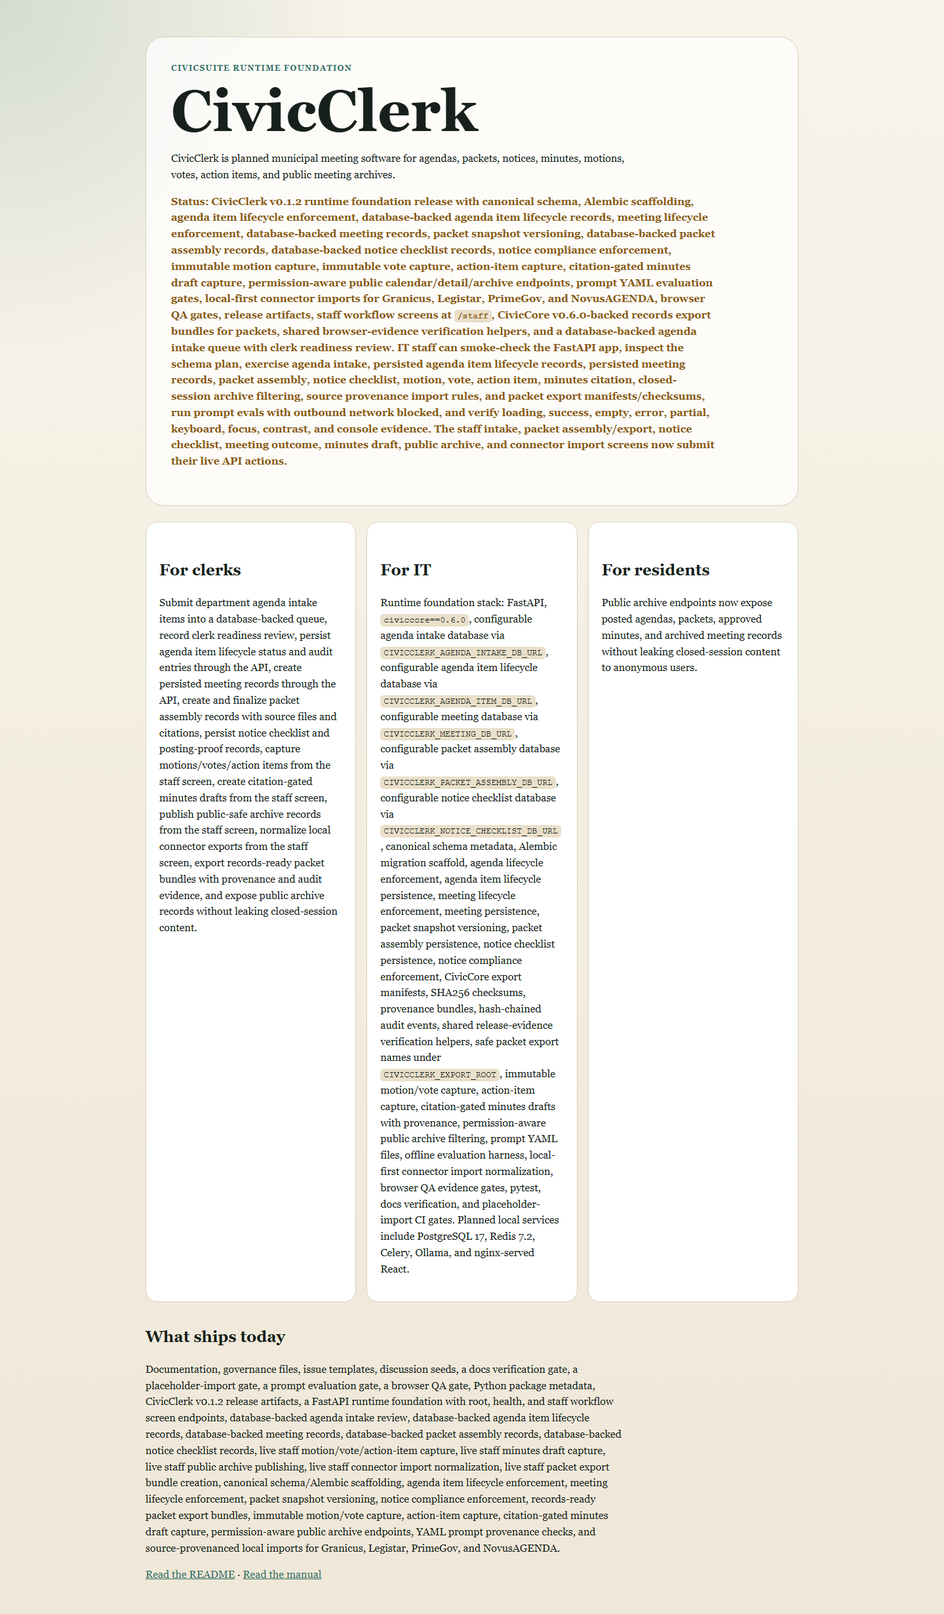
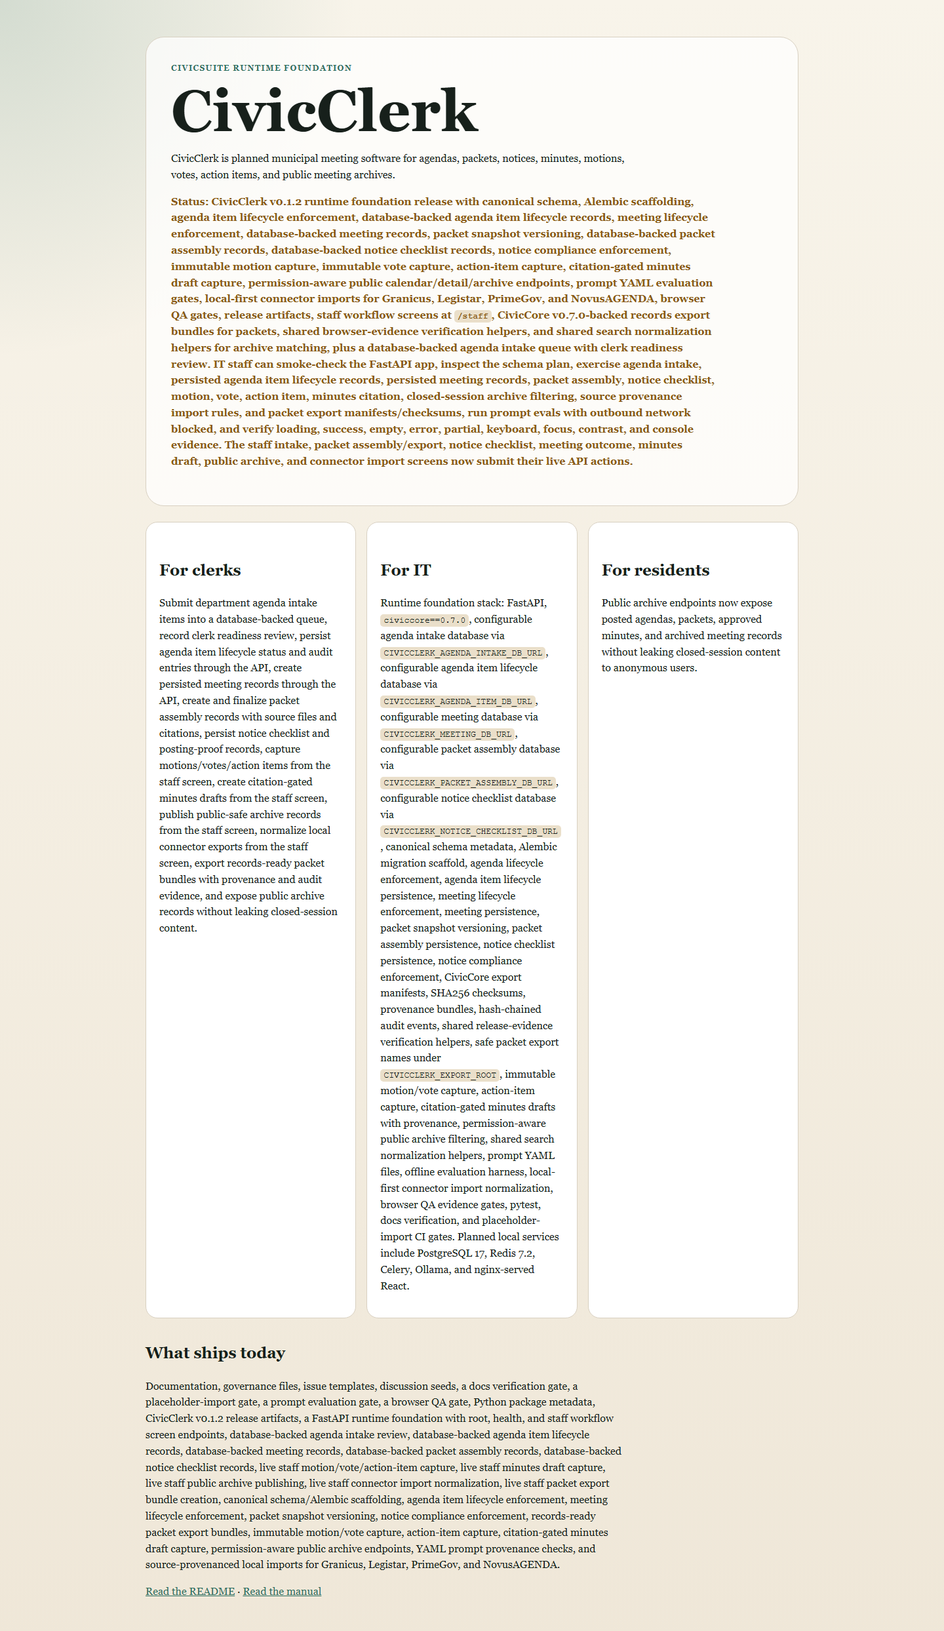
feat: consume civiccore search helpers

diff --git a/docs/index.html b/docs/index.html
@@ -51,7 +51,7 @@
       <div class="eyebrow">CivicSuite runtime foundation</div>
       <h1>CivicClerk</h1>
       <p>CivicClerk is planned municipal meeting software for agendas, packets, notices, minutes, motions, votes, action items, and public meeting archives.</p>
-      <p class="status">Status: CivicClerk v0.1.2 runtime foundation release with canonical schema, Alembic scaffolding, agenda item lifecycle enforcement, database-backed agenda item lifecycle records, meeting lifecycle enforcement, database-backed meeting records, packet snapshot versioning, database-backed packet assembly records, database-backed notice checklist records, notice compliance enforcement, immutable motion capture, immutable vote capture, action-item capture, citation-gated minutes draft capture, permission-aware public calendar/detail/archive endpoints, prompt YAML evaluation gates, local-first connector imports for Granicus, Legistar, PrimeGov, and NovusAGENDA, browser QA gates, release artifacts, staff workflow screens at <code>/staff</code>, CivicCore v0.6.0-backed records export bundles for packets, shared browser-evidence verification helpers, and a database-backed agenda intake queue with clerk readiness review. IT staff can smoke-check the FastAPI app, inspect the schema plan, exercise agenda intake, persisted agenda item lifecycle records, persisted meeting records, packet assembly, notice checklist, motion, vote, action item, minutes citation, closed-session archive filtering, source provenance import rules, and packet export manifests/checksums, run prompt evals with outbound network blocked, and verify loading, success, empty, error, partial, keyboard, focus, contrast, and console evidence. The staff intake, packet assembly/export, notice checklist, meeting outcome, minutes draft, public archive, and connector import screens now submit their live API actions.</p>
+      <p class="status">Status: CivicClerk v0.1.2 runtime foundation release with canonical schema, Alembic scaffolding, agenda item lifecycle enforcement, database-backed agenda item lifecycle records, meeting lifecycle enforcement, database-backed meeting records, packet snapshot versioning, database-backed packet assembly records, database-backed notice checklist records, notice compliance enforcement, immutable motion capture, immutable vote capture, action-item capture, citation-gated minutes draft capture, permission-aware public calendar/detail/archive endpoints, prompt YAML evaluation gates, local-first connector imports for Granicus, Legistar, PrimeGov, and NovusAGENDA, browser QA gates, release artifacts, staff workflow screens at <code>/staff</code>, CivicCore v0.7.0-backed records export bundles for packets, shared browser-evidence verification helpers, and shared search normalization helpers for archive matching, plus a database-backed agenda intake queue with clerk readiness review. IT staff can smoke-check the FastAPI app, inspect the schema plan, exercise agenda intake, persisted agenda item lifecycle records, persisted meeting records, packet assembly, notice checklist, motion, vote, action item, minutes citation, closed-session archive filtering, source provenance import rules, and packet export manifests/checksums, run prompt evals with outbound network blocked, and verify loading, success, empty, error, partial, keyboard, focus, contrast, and console evidence. The staff intake, packet assembly/export, notice checklist, meeting outcome, minutes draft, public archive, and connector import screens now submit their live API actions.</p>
     </section>
 
     <section class="grid" aria-label="Product overview">
@@ -61,7 +61,7 @@
       </article>
       <article class="card">
         <h2>For IT</h2>
-        <p>Runtime foundation stack: FastAPI, <code>civiccore==0.6.0</code>, configurable agenda intake database via <code>CIVICCLERK_AGENDA_INTAKE_DB_URL</code>, configurable agenda item lifecycle database via <code>CIVICCLERK_AGENDA_ITEM_DB_URL</code>, configurable meeting database via <code>CIVICCLERK_MEETING_DB_URL</code>, configurable packet assembly database via <code>CIVICCLERK_PACKET_ASSEMBLY_DB_URL</code>, configurable notice checklist database via <code>CIVICCLERK_NOTICE_CHECKLIST_DB_URL</code>, canonical schema metadata, Alembic migration scaffold, agenda lifecycle enforcement, agenda item lifecycle persistence, meeting lifecycle enforcement, meeting persistence, packet snapshot versioning, packet assembly persistence, notice checklist persistence, notice compliance enforcement, CivicCore export manifests, SHA256 checksums, provenance bundles, hash-chained audit events, shared release-evidence verification helpers, safe packet export names under <code>CIVICCLERK_EXPORT_ROOT</code>, immutable motion/vote capture, action-item capture, citation-gated minutes drafts with provenance, permission-aware public archive filtering, prompt YAML files, offline evaluation harness, local-first connector import normalization, browser QA evidence gates, pytest, docs verification, and placeholder-import CI gates. Planned local services include PostgreSQL 17, Redis 7.2, Celery, Ollama, and nginx-served React.</p>
+      <p>Runtime foundation stack: FastAPI, <code>civiccore==0.7.0</code>, configurable agenda intake database via <code>CIVICCLERK_AGENDA_INTAKE_DB_URL</code>, configurable agenda item lifecycle database via <code>CIVICCLERK_AGENDA_ITEM_DB_URL</code>, configurable meeting database via <code>CIVICCLERK_MEETING_DB_URL</code>, configurable packet assembly database via <code>CIVICCLERK_PACKET_ASSEMBLY_DB_URL</code>, configurable notice checklist database via <code>CIVICCLERK_NOTICE_CHECKLIST_DB_URL</code>, canonical schema metadata, Alembic migration scaffold, agenda lifecycle enforcement, agenda item lifecycle persistence, meeting lifecycle enforcement, meeting persistence, packet snapshot versioning, packet assembly persistence, notice checklist persistence, notice compliance enforcement, CivicCore export manifests, SHA256 checksums, provenance bundles, hash-chained audit events, shared release-evidence verification helpers, safe packet export names under <code>CIVICCLERK_EXPORT_ROOT</code>, immutable motion/vote capture, action-item capture, citation-gated minutes drafts with provenance, permission-aware public archive filtering, shared search normalization helpers, prompt YAML files, offline evaluation harness, local-first connector import normalization, browser QA evidence gates, pytest, docs verification, and placeholder-import CI gates. Planned local services include PostgreSQL 17, Redis 7.2, Celery, Ollama, and nginx-served React.</p>
       </article>
       <article class="card">
         <h2>For residents</h2>

diff --git a/tests/test_milestone_8_public_archive.py b/tests/test_milestone_8_public_archive.py
@@ -126,6 +126,25 @@ async def test_anonymous_archive_search_never_leaks_closed_session_in_body_count
 
 
 @pytest.mark.asyncio
+async def test_archive_search_normalizes_case_and_whitespace() -> None:
+    async with AsyncClient(transport=ASGITransport(app=app), base_url="http://testserver") as client:
+        meeting_id = await _create_meeting(client, "Normalization Budget Meeting")
+        public_record = await _publish_public_record(
+            client,
+            meeting_id=meeting_id,
+            title="Normalization Budget Meeting",
+        )
+
+        search = await client.get(
+            "/public/archive/search",
+            params={"q": "  normalization   budget   meeting  "},
+        )
+
+    assert search.status_code == 200
+    assert search.json()["results"] == [public_record]
+
+
+@pytest.mark.asyncio
 async def test_permission_aware_archive_search_for_staff_roles() -> None:
     async with AsyncClient(transport=ASGITransport(app=app), base_url="http://testserver") as client:
         closed_meeting_id = await _create_meeting(client, "Closed Labor Negotiation", "closed_session")

diff --git a/civicclerk/public_archive.py b/civicclerk/public_archive.py
@@ -5,6 +5,8 @@ from __future__ import annotations
 from dataclasses import dataclass
 from uuid import uuid4
 
+from civiccore.search import normalize_search_query, search_text_matches_query
+
 
 PUBLIC_VISIBILITY = "public"
 CLOSED_SESSION_VISIBILITY = "closed_session"
@@ -83,7 +85,7 @@ class PublicArchiveStore:
         return record
 
     def search(self, *, query: str, include_closed: bool = False) -> list[PublicMeetingRecord]:
-        normalized_query = query.strip().lower()
+        normalized_query = normalize_search_query(query)
         results: list[PublicMeetingRecord] = []
         for record in self._records.values():
             if record.visibility != PUBLIC_VISIBILITY and not include_closed:
@@ -116,8 +118,8 @@ def _record_matches(
             record.approved_minutes,
             record.closed_session_notes if include_closed and record.closed_session_notes else "",
         ]
-    ).lower()
-    return query in searchable_text
+    )
+    return search_text_matches_query(text=searchable_text, query=query)
 
 
 __all__ = [

diff --git a/civicclerk/main.py b/civicclerk/main.py
@@ -217,7 +217,7 @@ async def root() -> dict[str, str]:
             "minutes draft capture plus permission-aware public calendar and archive endpoints; "
             "prompt YAML and offline evaluation gates protect policy-bearing prompt changes; "
             "local-first Granicus, Legistar, PrimeGov, and NovusAGENDA imports now normalize "
-            "source provenance; CivicCore v0.6.0 packet export bundles now include manifests, "
+            "source provenance; CivicCore v0.7.0 packet export bundles now include manifests, "
             "checksums, provenance, and hash-chained audit evidence; accessibility and browser QA "
             "gates now verify loading, success, empty, error, partial, keyboard, focus, contrast, "
             "and console evidence; the first database-backed agenda intake queue now supports "

diff --git a/scripts/check-civiccore-placeholder-imports.py b/scripts/check-civiccore-placeholder-imports.py
@@ -1,5 +1,5 @@
 #!/usr/bin/env python3
-"""Fail if CivicClerk source imports CivicCore v0.6.0 placeholder packages."""
+"""Fail if CivicClerk source imports CivicCore v0.7.0 placeholder packages."""
 
 from __future__ import annotations
 
@@ -11,7 +11,6 @@ from pathlib import Path
 PLACEHOLDERS = [
     "rbac",
     "ingestion",
-    "search",
     "notifications",
     "exemptions",
     "onboarding",
@@ -60,7 +59,7 @@ def main() -> int:
         for name in PLACEHOLDERS:
             if any(pattern.search(text) for pattern in patterns_for(name)):
                 failures.append(
-                    f"{path}: civiccore.{name} is a placeholder package in v0.6.0. "
+                    f"{path}: civiccore.{name} is a placeholder package in v0.7.0. "
                     "See AGENTS.md section 3.1."
                 )
 

diff --git a/tests/test_milestone_1_runtime_foundation.py b/tests/test_milestone_1_runtime_foundation.py
@@ -42,7 +42,7 @@ def test_pyproject_pins_civiccore_exactly_to_released_v060() -> None:
     data = load_pyproject()
     dependencies = data["project"]["dependencies"]
 
-    assert "civiccore==0.6.0" in dependencies
+    assert "civiccore==0.7.0" in dependencies
     assert not any("civiccore>=" in dep or "civiccore~=" in dep for dep in dependencies)
 
 
@@ -126,7 +126,7 @@ async def test_health_endpoint_is_actionable_for_it_staff() -> None:
         "status": "ok",
         "service": "civicclerk",
         "version": "0.1.2",
-        "civiccore": "0.6.0",
+        "civiccore": "0.7.0",
     }
 
 

diff --git a/civicclerk/packet_notice.py b/civicclerk/packet_notice.py
@@ -121,7 +121,7 @@ class PacketStore:
     """Packet version and export-bundle store.
 
     The store is still process-local in this slice, but export bundles are
-written to disk with CivicCore v0.6.0 manifests, checksums, provenance, and
+    written to disk with CivicCore v0.7.0 manifests, checksums, provenance, and
     hash-chained audit events so they can be validated without the server.
     """
 

diff --git a/tests/test_milestone_12_release.py b/tests/test_milestone_12_release.py
@@ -102,4 +102,4 @@ def test_release_workflow_and_docs_reference_v012_release() -> None:
     assert "dist/*" in workflow
     assert "civiccore/releases/download/v0.6.0/civiccore-0.6.0-py3-none-any.whl" in workflow
     assert "civicclerk v0.1.2" in docs
-    assert "civiccore==0.6.0" in docs
+    assert "civiccore==0.7.0" in docs

diff --git a/tests/test_milestone_2_schema_and_migrations.py b/tests/test_milestone_2_schema_and_migrations.py
@@ -53,7 +53,6 @@ PLACEHOLDER_TARGET_PREFIXES = {
     "civiccore.auth",
     "civiccore.rbac",
     "civiccore.ingestion",
-    "civiccore.search",
     "civiccore.notifications",
     "civiccore.exemptions",
     "civiccore.onboarding",

diff --git a/README.md b/README.md
@@ -5,7 +5,7 @@
 Status: CivicClerk v0.1.2 runtime foundation release  
 Current version: `0.1.2`  
 Repository: <https://github.com/CivicSuite/civicclerk>  
-Depends on: `civiccore==0.6.0`
+Depends on: `civiccore==0.7.0`
 
 ## What CivicClerk will do
 
@@ -24,7 +24,7 @@ AI may draft or extract. Humans approve every consequential action.
 
 ## What exists today
 
-CivicClerk v0.1.2 ships the runtime and schema foundation plus database-backed agenda item lifecycle records, meeting lifecycle, packet snapshot, notice compliance, immutable motion capture, immutable vote capture, action-item capture, citation-gated minutes draft capture, permission-aware public calendar/detail/archive endpoints, a prompt YAML library with an offline evaluation harness, local-first connector imports for Granicus, Legistar, PrimeGov, and NovusAGENDA, accessibility/browser QA gates, CivicCore v0.6.0-backed records export bundles, database-backed agenda intake readiness, database-backed packet assembly records, database-backed notice checklist/posting-proof records, database-backed meeting records, and first staff workflow screens for intake, packet assembly/export, notice checklist, meeting outcome, minutes draft, public archive, and connector import work. The staff screens now submit agenda intake, record readiness review, create/finalize packet assembly records, create records-ready packet export bundles, persist notice checklist records, attach posting proof, capture motions/votes/action items, create citation-gated minutes drafts, publish public-safe archive records, and normalize local connector exports through the live API.
+CivicClerk v0.1.2 ships the runtime and schema foundation plus database-backed agenda item lifecycle records, meeting lifecycle, packet snapshot, notice compliance, immutable motion capture, immutable vote capture, action-item capture, citation-gated minutes draft capture, permission-aware public calendar/detail/archive endpoints, a prompt YAML library with an offline evaluation harness, local-first connector imports for Granicus, Legistar, PrimeGov, and NovusAGENDA, accessibility/browser QA gates, CivicCore v0.7.0-backed records export bundles, database-backed agenda intake readiness, database-backed packet assembly records, database-backed notice checklist/posting-proof records, database-backed meeting records, and first staff workflow screens for intake, packet assembly/export, notice checklist, meeting outcome, minutes draft, public archive, and connector import work. The staff screens now submit agenda intake, record readiness review, create/finalize packet assembly records, create records-ready packet export bundles, persist notice checklist records, attach posting proof, capture motions/votes/action items, create citation-gated minutes drafts, publish public-safe archive records, and normalize local connector exports through the live API.
 
 Shipped in this foundation:
 
@@ -34,7 +34,7 @@ Shipped in this foundation:
 - contributing, support, security, code of conduct, issue templates, and PR template
 - discussion seed posts
 - docs verification script and CI workflow
-- Python package metadata with `civiccore==0.6.0`
+- Python package metadata with `civiccore==0.7.0`
 - FastAPI application import path at `civicclerk.main:app`
 - root endpoint that explains the current product state
 - `/health` endpoint for IT staff
@@ -91,7 +91,7 @@ Shipped in this foundation:
 - prompt-version provenance enforcement for minutes drafts
 - local-first Granicus, Legistar, PrimeGov, and NovusAGENDA meeting imports
 - source provenance on imported meetings and agenda items
-- records-ready packet export bundles with CivicCore v0.6.0 manifests, SHA256 checksums, provenance, and hash-chained audit events
+- records-ready packet export bundles with CivicCore v0.7.0 manifests, SHA256 checksums, provenance, and hash-chained audit events
 - closed-session/restricted source guardrails for public packet export bundles
 - safe API export-path handling through `bundle_name` under `CIVICCLERK_EXPORT_ROOT`
 - browser QA gate covering loading, success, empty, error, and partial states
@@ -130,7 +130,7 @@ CivicClerk follows the CivicSuite pattern:
 - Ollama / Gemma 4 through `civiccore.llm`, selected by `CIVICCORE_LLM_PROVIDER=ollama`
 - local data ownership, no runtime telemetry, no cloud inference
 
-The foundation is intentionally thin. Canonical schema, Alembic scaffolding, agenda item lifecycle enforcement, agenda item lifecycle persistence, meeting lifecycle enforcement, meeting records, packet snapshot versioning, packet assembly records, notice checklist records, notice compliance enforcement, immutable motion capture, immutable vote capture, action-item capture, citation-gated minutes draft capture, permission-aware public archive endpoints, prompt YAML/evaluation gates, local-first connector import normalization, browser QA gates, CivicClerk v0.1.2 release artifacts, and CivicCore v0.6.0 packet export plus browser-evidence verification primitives are present. Minutes drafts require sentence-level citations, YAML prompt-version provenance, and human approval before acceptance, and they are never auto-adopted or auto-posted. Anonymous public archive endpoints do not reveal closed-session content in response bodies, counts, suggestions, or error messages. Connector imports record source provenance and do not require outbound network calls in the default local profile. Public packet exports block closed-session/restricted sources and include manifest, checksum, provenance, and audit evidence. Agenda item records now persist lifecycle status and audit entries when `CIVICCLERK_AGENDA_ITEM_DB_URL` is configured. Meeting records now persist scheduled starts, normalized meeting type, lifecycle status, and audit entries when `CIVICCLERK_MEETING_DB_URL` is configured. Packet assembly records now persist source references, citations, linked packet snapshot ids, and durable audit hashes. Notice checklist records persist compliance outcomes, warnings, posting proof, and durable audit hashes. Browser QA now checks loading, success, empty, error, and partial states plus keyboard, focus, contrast, and console evidence, and release screenshots are bound to the current docs page through shared CivicCore verification helpers. CivicClerk v0.1.2 now pairs with `civiccore==0.6.0`.
+The foundation is intentionally thin. Canonical schema, Alembic scaffolding, agenda item lifecycle enforcement, agenda item lifecycle persistence, meeting lifecycle enforcement, meeting records, packet snapshot versioning, packet assembly records, notice checklist records, notice compliance enforcement, immutable motion capture, immutable vote capture, action-item capture, citation-gated minutes draft capture, permission-aware public archive endpoints, prompt YAML/evaluation gates, local-first connector import normalization, browser QA gates, CivicClerk v0.1.2 release artifacts, and CivicCore v0.7.0 packet export plus browser-evidence verification primitives are present. Minutes drafts require sentence-level citations, YAML prompt-version provenance, and human approval before acceptance, and they are never auto-adopted or auto-posted. Anonymous public archive endpoints do not reveal closed-session content in response bodies, counts, suggestions, or error messages. Connector imports record source provenance and do not require outbound network calls in the default local profile. Public packet exports block closed-session/restricted sources and include manifest, checksum, provenance, and audit evidence. Agenda item records now persist lifecycle status and audit entries when `CIVICCLERK_AGENDA_ITEM_DB_URL` is configured. Meeting records now persist scheduled starts, normalized meeting type, lifecycle status, and audit entries when `CIVICCLERK_MEETING_DB_URL` is configured. Packet assembly records now persist source references, citations, linked packet snapshot ids, and durable audit hashes. Notice checklist records persist compliance outcomes, warnings, posting proof, and durable audit hashes. Browser QA now checks loading, success, empty, error, and partial states plus keyboard, focus, contrast, and console evidence, and release screenshots are bound to the current docs page through shared CivicCore verification helpers. CivicClerk v0.1.2 now pairs with `civiccore==0.7.0`.
 
 The staff experience at `/staff` now includes first workflow screens for agenda intake, packet assembly/export, notice checklist/posting-proof, meeting outcome, minutes draft, public archive, and connector import work. It is intentionally honest: these seven screens can submit their corresponding live API actions, while the broader multi-role React clerk console remains future work.
 

diff --git a/USER-MANUAL.md b/USER-MANUAL.md
@@ -47,7 +47,7 @@ draft capture, and permission-aware public calendar/detail/archive
 endpoints, a prompt YAML library and offline evaluation harness,
 local-first connector imports for Granicus, Legistar, PrimeGov, and
 NovusAGENDA, accessibility/browser QA gates, CivicClerk v0.1.2 release
-artifacts, CivicCore v0.6.0-backed packet export bundles, a database-backed
+artifacts, CivicCore v0.7.0-backed packet export bundles, a database-backed
 agenda intake queue with clerk readiness review, database-backed meeting
 records with lifecycle audit entries, database-backed packet assembly records
 with source/citation metadata, database-backed agenda item lifecycle records
@@ -151,7 +151,7 @@ Milestone 11 adds browser QA evidence and a CI gate for loading, success,
 empty, error, and partial states plus keyboard navigation, focus states,
 contrast, and console checks. Milestone 12 synchronizes version surfaces,
 builds release artifacts and checksums, and publishes CivicClerk v0.1.2.
-The current production-depth branch pairs CivicClerk with `civiccore==0.6.0`
+The current production-depth branch pairs CivicClerk with `civiccore==0.7.0`
 so packet exports, packet assembly records, notice checklist records, and the
 browser QA release-evidence gate can use shared CivicCore manifests,
 provenance, checksums, audit primitives, and verification helpers.
@@ -181,7 +181,7 @@ filtering for anonymous and under-privileged users. Milestone 9 moves
 policy-bearing prompt text into YAML and adds an evaluation harness.
 Milestone 10 adds source-provenanced connector import normalization for
 Granicus, Legistar, PrimeGov, and NovusAGENDA. Production-depth slices add
-records-ready packet export bundles using CivicCore v0.6.0 provenance, export
+records-ready packet export bundles using CivicCore v0.7.0 provenance, export
 manifest, checksum, and audit primitives; database-backed agenda intake and
 clerk readiness review state; database-backed agenda item lifecycle records with
 durable transition audit entries; database-backed meeting records with lifecycle

diff --git a/CHANGELOG.md b/CHANGELOG.md
@@ -11,11 +11,14 @@ All notable changes to CivicClerk are documented here.
 - Shared browser-QA release evidence validation through
   `civiccore.verification.validate_release_browser_evidence`, so CivicClerk's
   release screenshots and manifest stay bound to the current docs page hash.
+- Public archive search now consumes the shared `civiccore.search`
+  normalization helper surface, keeping permission-aware archive matching
+  whitespace-stable and case-insensitive without a local duplicate helper.
 
 ### Changed
-- CivicClerk now pins `civiccore==0.6.0` so the release gate can consume the
-  shipped shared verification helper in addition to the existing audit,
-  provenance, and export primitives.
+- CivicClerk now pins `civiccore==0.7.0` so the release gate can consume the
+  shipped shared verification and search helpers in addition to the existing
+  audit, provenance, and export primitives.
 
 ## [0.1.2] - 2026-04-29
 
